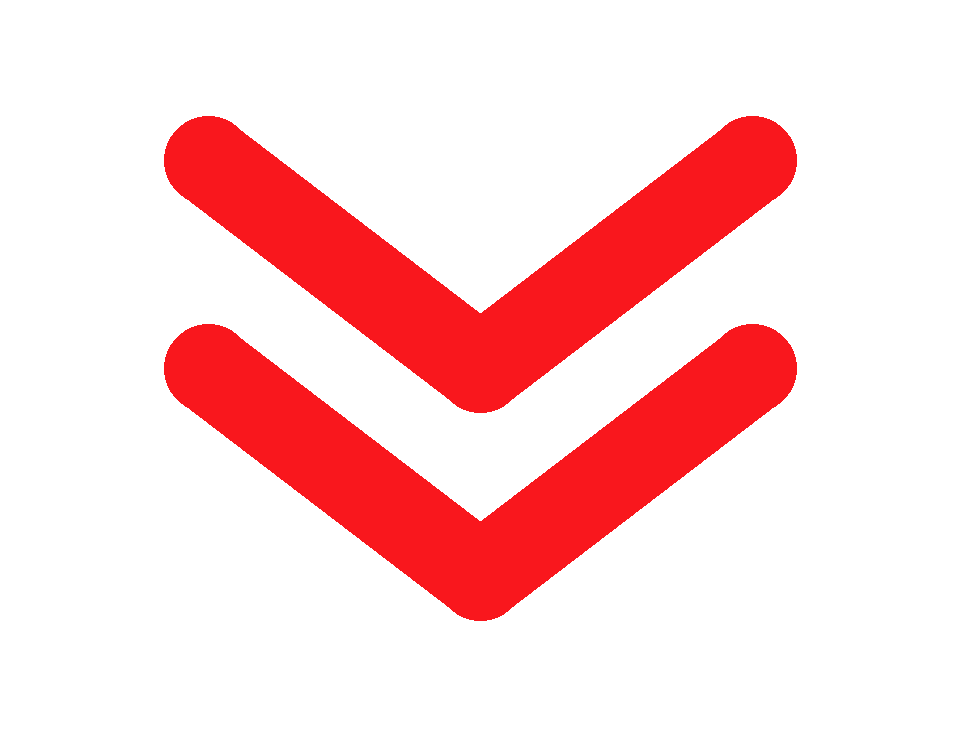
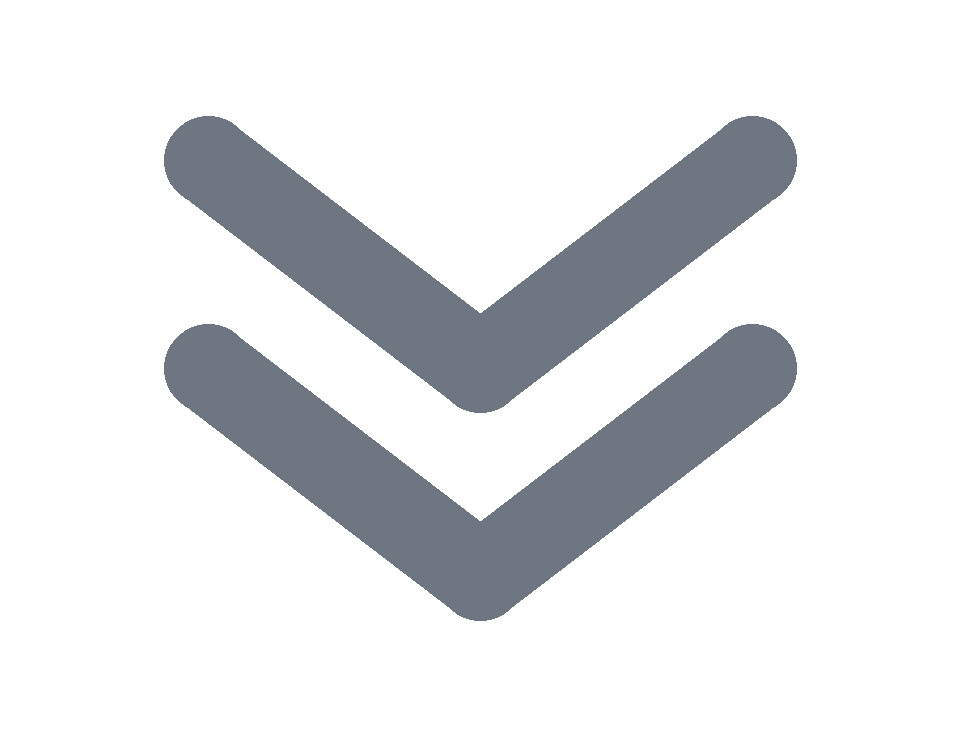
docs: update README from public-repo source

Changed region(s): [[0.1562, 0.4375, 0.8438, 0.8438], [0.1562, 0.1562, 0.8438, 0.5625]]

diff --git a/README.md b/README.md
@@ -50,8 +50,7 @@ void OnTick()
 ```
 
 <div align="center">
-  <img src="assets/transpile_chevron.png" alt="transpiled to C#" height="26"><br>
-  <sub><b>transpiled to C#</b></sub>
+  <img src="assets/transpile_chevron.png" alt="" height="18" align="middle"> &nbsp; <b>transpiled to C#</b>
 </div>
 
 ```csharp
